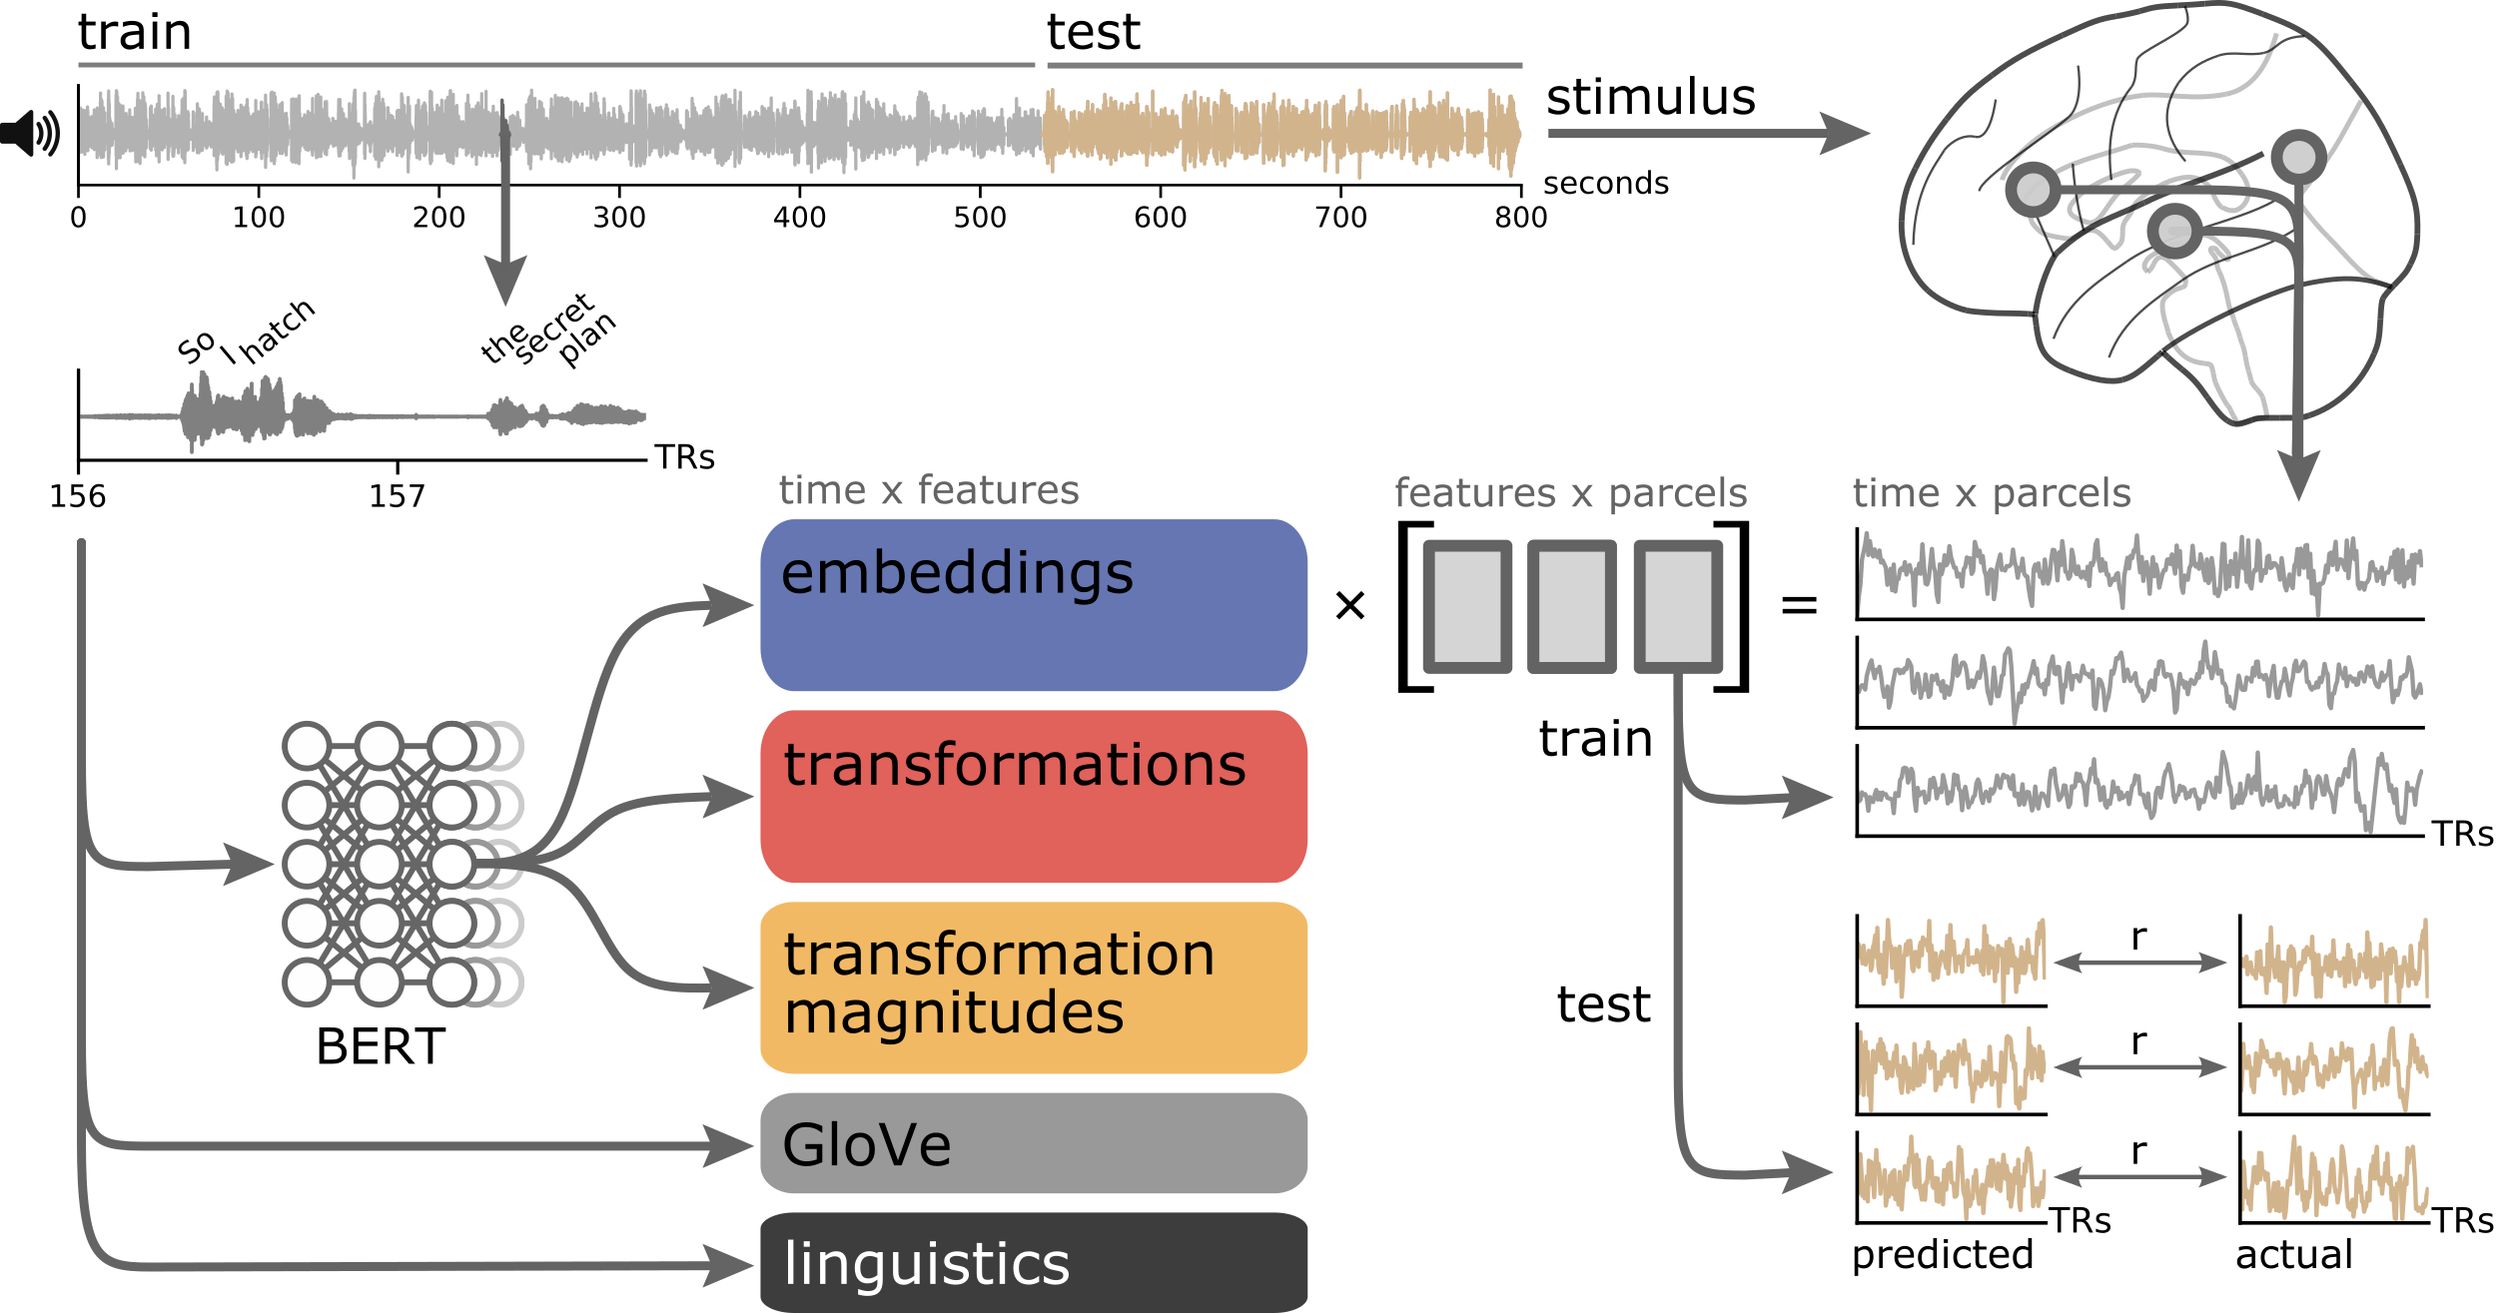
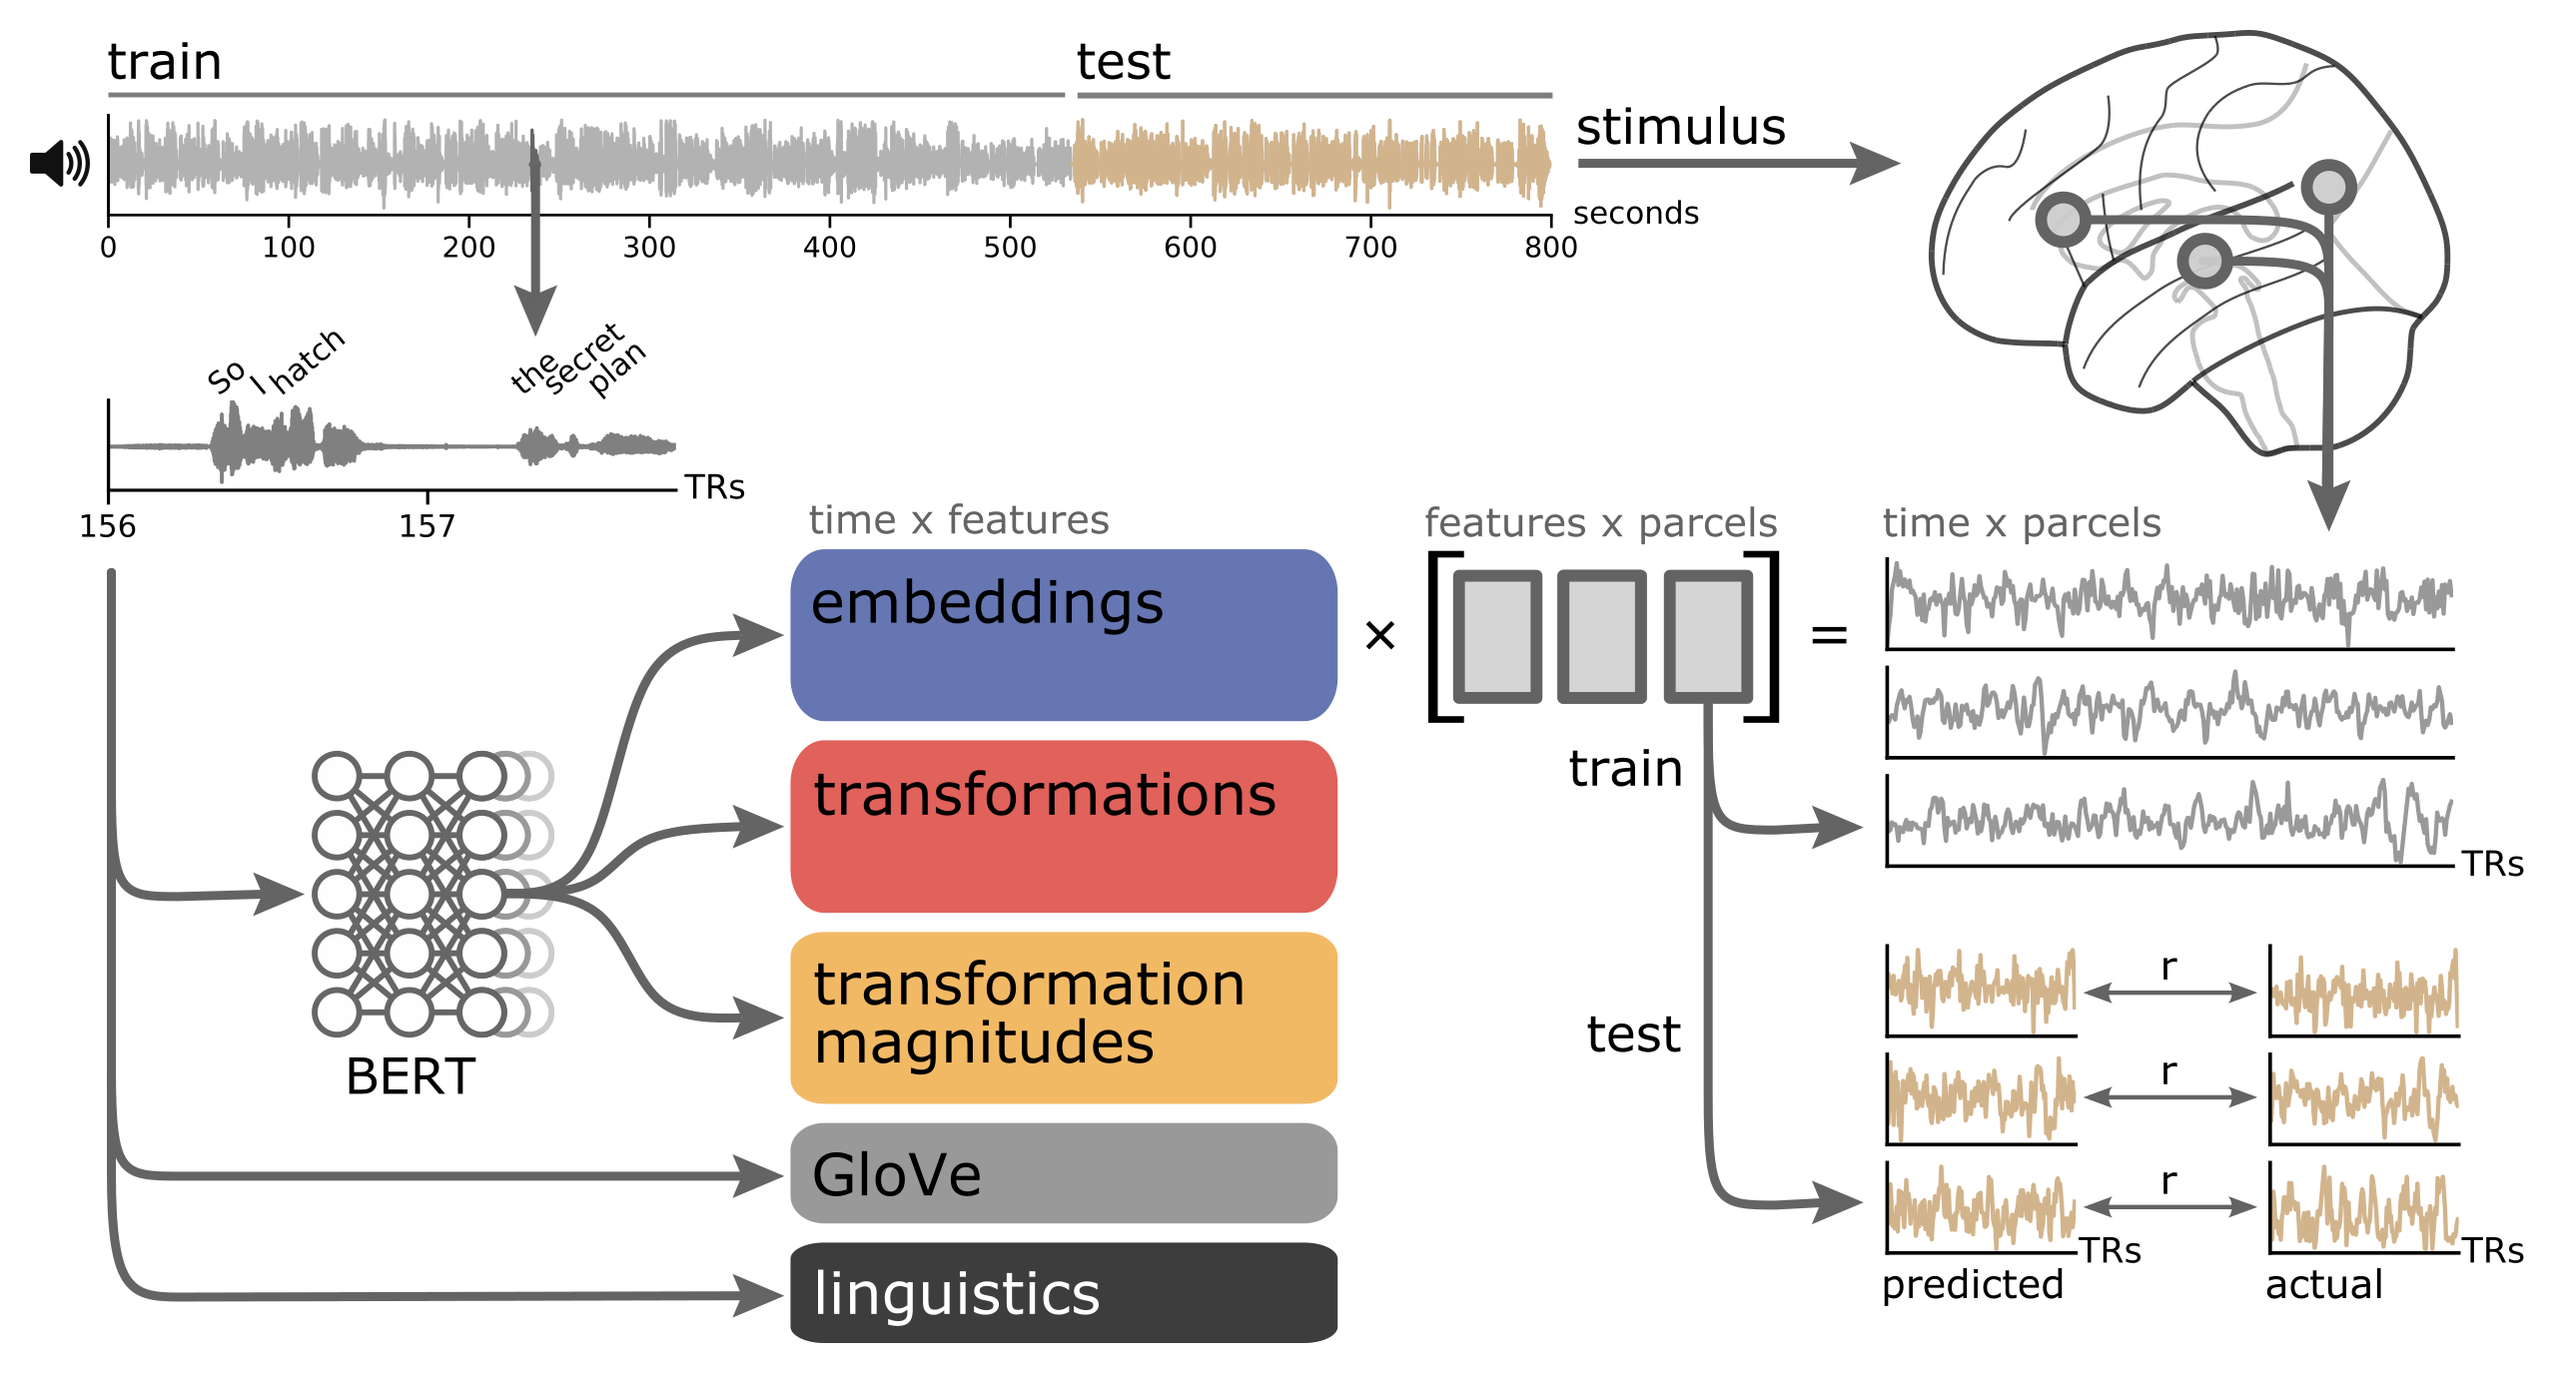
Stylistic update to README

Changed region(s): [[0.0, 0.0, 0.7432, 1.0], [0.5264, 0.343, 0.9909, 0.9665], [0.7432, 0.0, 0.9599, 0.3741]]

diff --git a/README.md b/README.md
@@ -1,7 +1,16 @@
-# bert-brains
+## Reconstructing the cascade of language processing in the brain using the internal computations of transformer language models
+
+![alt text](https://github.com/tsumers/bert-brains/blob/master/figure_1_github.png?raw=true)
+
+This repository accompanies the manuscript "Reconstructing the cascade of language processing in the brain using the internal computations of transformer language models". In this manuscript we use the internal computations of a transformer model (BERT) to predict fMRI activity while subjects listen to naturalistic spoken narratives.
+
+Authors: Sreejan Kumar, Theodore R. Sumers, Takateru Yamakoshi, Uri Hasson, Kenneth A. Norman, Thomas L. Griffiths, Robert D. Hawkins, Samuel A. Nastase
+
+The following list describes the various analysis scripts:
 
 ### Preprocessing
 `narratives-transcript-processing.ipynb`: Used to pre-process transcripts from the `Narratives` dataset. Outputs (1) phonemes and associated nuisance variables for regression analyses; (2) TR-aligned tokens for use with Transformer notebooks.
+
 
 ### Transformers
 `transformer-representations.ipynb`: the primary notebook used to generate Transformer representations (embeddings, transformations) for regression analyses.  
@@ -10,12 +19,14 @@
 
 `transformer-utils.py`: functionality for extracting various Transformer representations, including some experimental metrics that were used in the paper.  
 
-### data_moving/handling
+
+### Data handling
 `create_fmri_dataset.py`: Copy data from narratives dataset into lab project folder.
 
 `ROIs.ipynb`: Handling ROI labeling and visualizing.
 
-### Analysis Code
+
+### Analysis code
 `banded_ridge_regression.py`: Run encoding model analyses (banded ridge regression) with a given representation as main features.
 
 `calculate_boostrap_pvalue.py`: Calculate bootstrap pvalue (with FDR corrections) for individual parcels to determine significance.
@@ -61,7 +72,7 @@
 `headwise_specialization.ipynb`: Run PCA on transformation weights and visualization two-dimensional projections.
 
 
-### Slurm Jobs
+### Slurm jobs
 `avg_job.sh`: Slurm job corresponding to save_mean_volumes.py.
 
 `boot_job.sh`: Slurm job corresponding to calculate_bootstrap_pvalue.py.
@@ -71,7 +82,7 @@
 `joblist.txt`: Job list for submitting slurm job array.
 
 
-### Misc
+### Miscellaneous
 `fmri_conda_env.yml`: yml conda env file for fmri analyses.
 
 `transformer_conda_env.yml`: yml conda env file for transcript pre-processing and Transformer analysis notebooks.
